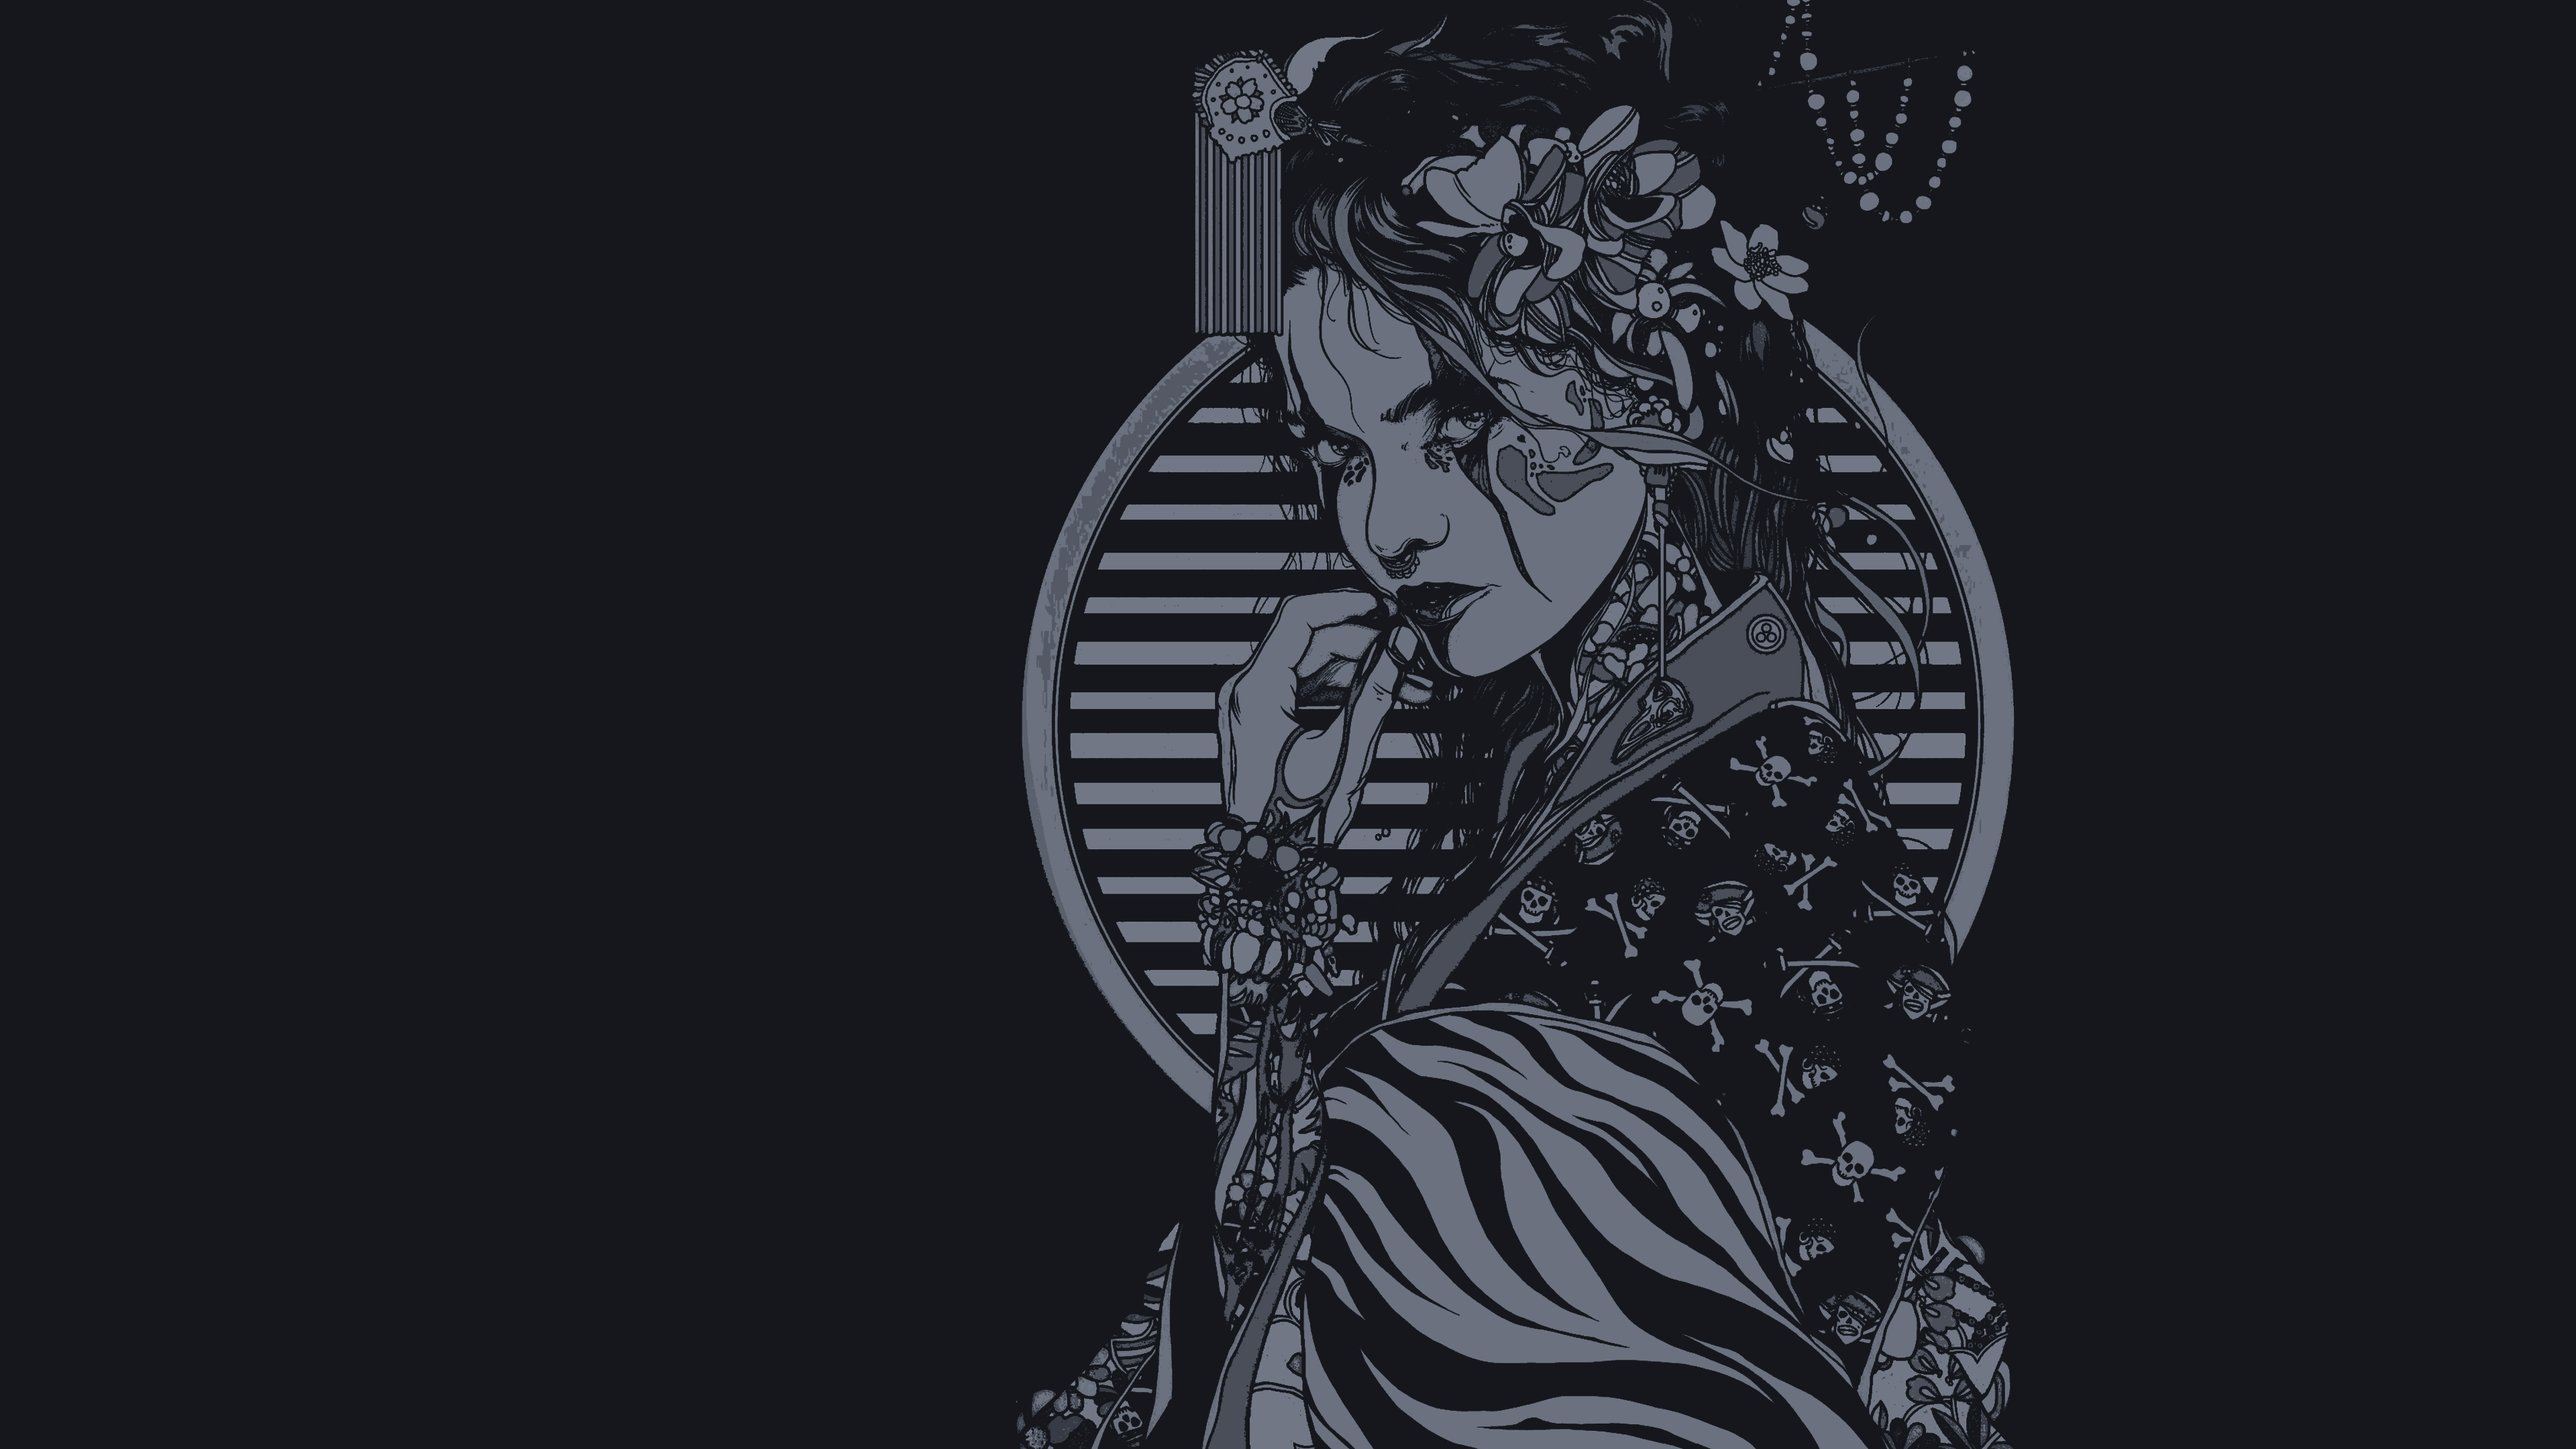
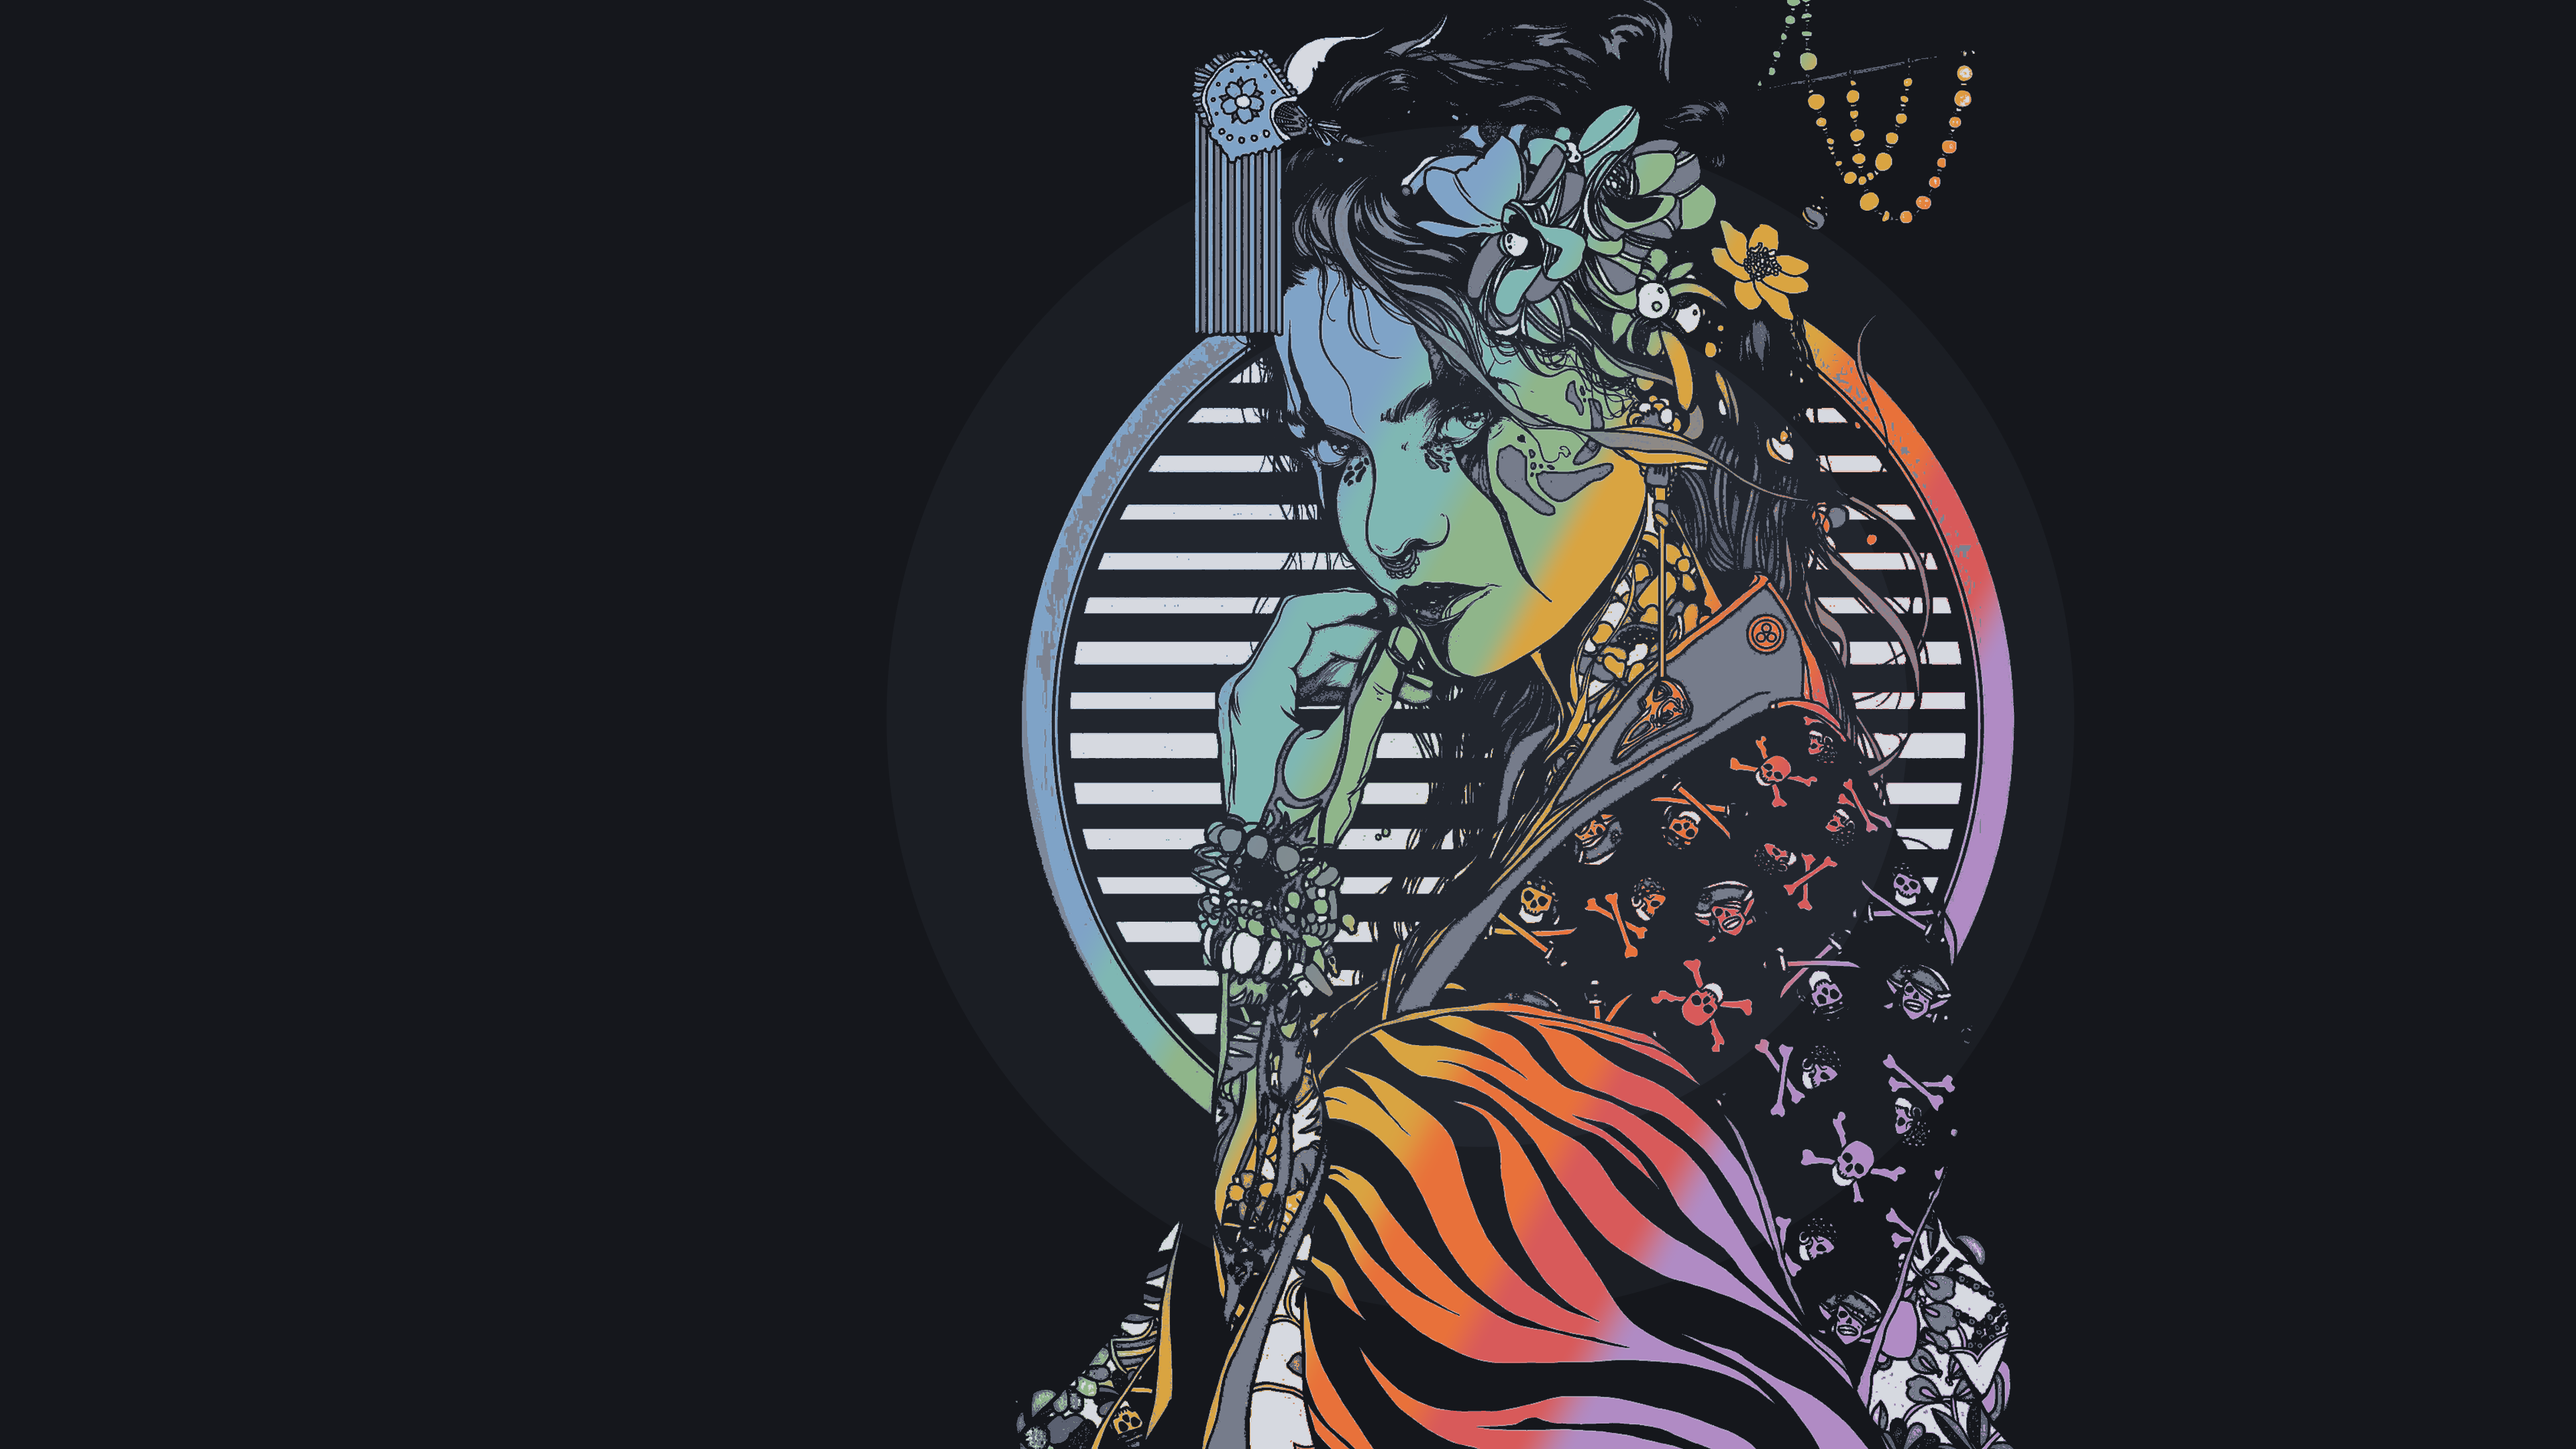
backgrounds: recolour every wallpaper with the full palette
The five wallpapers used only the neutrals and ember. They now carry all
13 colours of backgrounds/*.gpl, each as its exact hex: window paper, a
stepped pane and container disc behind the subject, comment and muted
shadows, the seven colours swept across the subject in equal-area bands,
text on the strongest lines.

scripts/wallpaper.py does the mapping and checks every colour and the
window corners before writing; wallpaper.sh now prepares the grey and
hands it over. The sources are not in the repo, so these were redone with
--v1, which recovers the grey levels from the two-tone renders.

Claude-Session: https://claude.ai/code/session_01PiNkwWbMkiGMkdhnqFjUyB

Changed region(s): [[0.375, 0.0, 0.7812, 1.0], [0.6875, 0.031, 0.7812, 0.1551]]

diff --git a/scripts/wallpaper.py b/scripts/wallpaper.py
@@ -1,0 +1,230 @@
+#!/usr/bin/env python3
+"""Recolour one wallpaper with every colour of the repo palette.
+
+    python3 scripts/wallpaper.py night GREY.png OUT.png
+    python3 scripts/wallpaper.py day   GREY.png OUT.png
+    python3 scripts/wallpaper.py night --v1 backgrounds/ember-eagle.png OUT.png
+
+GREY is the cover-cropped grey render that scripts/wallpaper.sh prepares (light
+subject on dark for night, dark subject on light for day). --v1 instead reads
+a wallpaper made by the first, two-tone lookup and recovers its grey levels, so
+the shipped wallpapers can be redone without the cool-wallpapers sources.
+
+The palette is read from backgrounds/*.gpl. Each pixel gets an ink level, 0 on
+the paper and 1 on the strongest line, and runs along one ramp of roles:
+
+    ink  0.00-0.20  window, flat, so the paper lands exactly on the window
+         0.20-0.46  comment, then muted (shadows and fine lines)
+         0.46-0.80  one of the seven colours (ember, moss, amber, brick,
+                    slate blue, heather, verdigris), held flat
+         0.80-1.00  text (fog by night, ink by day) on the strongest lines
+
+Which of the seven a pixel takes depends on where it sits: the subject is
+swept on a diagonal and split into seven bands of equal ink, so each colour
+covers about a seventh of the subject. Behind the subject sits a stepped disc
+in pane and container, kept clear of the corners so they stay on the window.
+Blends between roles are mixed in OKLab; every role holds a flat band, so
+each palette colour is present as its exact hex.
+"""
+import glob
+import os
+import sys
+
+import numpy as np
+from PIL import Image
+
+W, H = 3840, 2160
+HUES = ["Slate blue", "Verdigris", "Moss", "Amber", "Ember", "Brick", "Heather"]
+SWEEP = np.deg2rad(28)  # top left to bottom right
+
+# The first lookup of scripts/wallpaper.sh, as (rows, from, to); used by --v1.
+V1 = {
+    "night": [(48, "15171C", "15171C"), (42, "15171C", "2A2F38"), (70, "2A2F38", "7C8290"),
+              (60, "7C8290", "E8713A"), (36, "E8713A", "F1D9C8")],
+    "day": [(100, "2B2E36", "6B6F78"), (50, "6B6F78", "A4441A"), (40, "A4441A", "D4CFC6"),
+            (15, "D4CFC6", "E9E6DF"), (51, "E9E6DF", "E9E6DF")],
+}
+
+
+def rgb(h):
+    return np.array([int(h[i:i + 2], 16) for i in (0, 2, 4)], dtype=np.float64)
+
+
+def palette(root):
+    gpl = glob.glob(os.path.join(root, "backgrounds", "*.gpl"))
+    assert len(gpl) == 1, f"want one .gpl in backgrounds/, found {gpl}"
+    pal = {}
+    for line in open(gpl[0]):
+        p = line.split()
+        if len(p) >= 4 and all(x.isdigit() for x in p[:3]):
+            pal[" ".join(p[3:-1])] = np.array([int(x) for x in p[:3]], dtype=np.float64)
+    return pal
+
+
+def to_lab(c):
+    c = c / 255.0
+    c = np.where(c <= 0.04045, c / 12.92, ((c + 0.055) / 1.055) ** 2.4)
+    m1 = np.array([[0.4122214708, 0.5363325363, 0.0514459929],
+                   [0.2119034982, 0.6806995451, 0.1073969566],
+                   [0.0883024619, 0.2817188376, 0.6299787005]])
+    m2 = np.array([[0.2104542553, 0.7936177850, -0.0040720468],
+                   [1.9779984951, -2.4285922050, 0.4505937099],
+                   [0.0259040371, 0.7827717662, -0.8086757660]])
+    return np.cbrt(c @ m1.T) @ m2.T
+
+
+def from_lab(L):
+    m2i = np.array([[1.0, 0.3963377774, 0.2158037573],
+                    [1.0, -0.1055613458, -0.0638541728],
+                    [1.0, -0.0894841775, -1.2914855480]])
+    m1i = np.array([[4.0767416621, -3.3077115913, 0.2309699292],
+                    [-1.2684380046, 2.6097574011, -0.3413193965],
+                    [-0.0041960863, -0.7034186147, 1.7076147010]])
+    c = np.clip((L @ m2i.T) ** 3 @ m1i.T, 0, 1)
+    c = np.where(c <= 0.0031308, c * 12.92, 1.055 * c ** (1 / 2.4) - 0.055)
+    return np.rint(c * 255).clip(0, 255).astype(np.uint8)
+
+
+def smooth(x):
+    x = np.clip(x, 0, 1)
+    return x * x * (3 - 2 * x)
+
+
+def ink_from_grey(mode, path):
+    g = np.asarray(Image.open(path).convert("I;16"), dtype=np.float32) / 65535
+    if g.shape != (H, W):
+        sys.exit(f"{path} is {g.shape[1]}x{g.shape[0]}, want {W}x{H}")
+    return g if mode == "night" else 1 - g
+
+
+def ink_from_v1(mode, path):
+    """Invert the two-tone lookup: find each colour's row, row/255 is the grey."""
+    rows = []
+    for n, a, b in V1[mode]:
+        a, b = rgb(a), rgb(b)
+        rows += [a + (b - a) * i / max(n - 1, 1) for i in range(n)]
+    rows = np.array(rows)
+    fine = np.concatenate([rows[i] + (rows[i + 1] - rows[i]) * np.linspace(0, 1, 16, endpoint=False)[:, None]
+                           for i in range(len(rows) - 1)] + [rows[-1:]])
+    grey_of_fine = np.arange(len(fine)) / 16 / 255
+    img = np.asarray(Image.open(path).convert("RGB"))
+    if img.shape[:2] != (H, W):
+        sys.exit(f"{path} is {img.shape[1]}x{img.shape[0]}, want {W}x{H}")
+    flat = img.reshape(-1, 3)
+    keys = (flat[:, 0].astype(np.int32) << 16) | (flat[:, 1].astype(np.int32) << 8) | flat[:, 2]
+    uniq, inv = np.unique(keys, return_inverse=True)
+    ucol = np.stack([uniq >> 16, (uniq >> 8) & 255, uniq & 255], 1).astype(np.float64)
+    d = ((ucol[:, None, :] - fine[None, :, :]) ** 2).sum(-1)
+    near = d.argmin(1)
+    worst = np.sqrt(d[np.arange(len(ucol)), near]).max()
+    if worst > 3:
+        sys.exit(f"{path}: a colour sits {worst:.1f} off the {mode} lookup, not a v1 render")
+    g = grey_of_fine[near][inv].reshape(H, W).astype(np.float32)
+    return g if mode == "night" else 1 - g
+
+
+def densest(mask, step=16):
+    """Centroid of the mask weighted by the square of its local density (a box
+    a sixth of the height wide), so solid shapes count and thin lines barely do."""
+    h, w = H // step, W // step
+    small = mask[:h * step, :w * step].reshape(h, step, w, step).mean((1, 3))
+    k = H // 6 // step
+    c = np.pad(small, ((k // 2 + 1, k - k // 2), (k // 2 + 1, k - k // 2))).cumsum(0).cumsum(1)
+    box = (c[k:, k:] - c[:-k, k:] - c[k:, :-k] + c[:-k, :-k])[:h, :w] / k ** 2
+    wt = small * box ** 2
+    yy, xx = np.mgrid[0:h, 0:w]
+    return ((xx * wt).sum() / wt.sum() + 0.5) * step, ((yy * wt).sum() / wt.sum() + 0.5) * step
+
+
+def rank(ink, subject):
+    """Spread the subject's ink evenly over 0.2-1 by its own distribution (ties
+    take their middle rank), so a faint render and a bold one both run the whole
+    ramp and every role lands on part of the subject."""
+    bins = np.clip((ink * 4095).astype(np.int32), 0, 4095)
+    n = np.bincount(bins[subject], minlength=4096).astype(np.float64)
+    mid = (np.cumsum(n) - n / 2) / n.sum()
+    return np.where(subject, 0.2 + 0.8 * mid[bins], ink).astype(np.float32)
+
+
+def render(mode, ink, pal):
+    lab = {k: to_lab(v) for k, v in pal.items()}
+    window = lab["Window"]
+    # outer disc is whichever of pane / container sits nearer the window
+    near, far = sorted(["Pane", "Container"], key=lambda k: abs(lab[k][0] - window[0]))
+
+    ys, xs = np.mgrid[0:H, 0:W].astype(np.float32)
+    subject = ink > 0.2
+    ink = rank(ink, subject)
+    if not subject.any():
+        sys.exit("nothing above the paper: is the mode right?")
+
+    # stepped disc behind the subject: centred where the subject is densest
+    # (so thin lines trailing off do not pull it away), wide enough for most
+    # of it, its rim kept 120 px inside every edge where the room allows
+    cx, cy = densest(subject)
+    dist = np.hypot(xs - cx, ys - cy)
+    r = 1.15 * np.percentile(dist[subject], 70)
+    r = min(r, cx - 120, W - 120 - cx, cy - 120, H - 120 - cy, 0.46 * H)
+    r = max(r, 0.16 * H)
+    outer = np.clip(r - dist + 0.5, 0, 1)[..., None]
+    inner = np.clip(0.72 * r - dist + 0.5, 0, 1)[..., None]
+    base = window + (lab[near] - window) * outer
+    base = base + (lab[far] - base) * inner
+
+    # colour sweep: equal-ink bands of the seven colours along a diagonal
+    proj = xs * np.cos(SWEEP) + ys * np.sin(SWEEP)
+    hot = (ink > 0.48) & (ink < 0.84)
+    pts = proj[hot] if hot.sum() > 1000 else proj[subject]
+    q = np.quantile(pts, np.linspace(0, 1, 513))
+    q = np.maximum.accumulate(q + np.arange(513) * 1e-4)
+    t = np.interp(proj, q, np.linspace(0, 1, 513))
+    s = np.clip(t * len(HUES) - 0.5, 0, len(HUES) - 1)
+    i = np.minimum(s.astype(np.int32), len(HUES) - 2)
+    f = smooth((s - i - 0.3) / 0.4)[..., None]
+    hues = np.array([lab[k] for k in HUES])
+    hue = hues[i] + (hues[i + 1] - hues[i]) * f
+
+    keys = [(0.20, base), (0.26, lab["Comment"]), (0.31, lab["Comment"]),
+            (0.37, lab["Muted"]), (0.42, lab["Muted"]), (0.48, hue),
+            (0.84, hue), (0.92, lab["Text"])]
+    out = np.broadcast_to(base, (H, W, 3)).copy()
+    for (a, ca), (b, cb) in zip(keys, keys[1:]):
+        m = ink > a
+        w = smooth((ink[m] - a) / (b - a))[:, None]
+        ca = ca[m] if np.ndim(ca) == 3 else ca
+        cb = cb[m] if np.ndim(cb) == 3 else cb
+        out[m] = ca + (cb - ca) * w
+    return from_lab(out.reshape(-1, 3)).reshape(H, W, 3)
+
+
+def check(img, pal, path):
+    flat = img.reshape(-1, 3)
+    missing = []
+    for k, v in pal.items():
+        n = int(np.all(flat == v.astype(np.uint8), axis=1).sum())
+        if n < 500:
+            missing.append(f"{k} ({n} px)")
+    corners = [img[0, 0], img[0, -1], img[-1, 0], img[-1, -1]]
+    if any((c != pal["Window"]).any() for c in corners):
+        missing.append("window corners")
+    if missing:
+        sys.exit(f"{path}: short of " + ", ".join(missing))
+
+
+def main(argv):
+    v1 = "--v1" in argv
+    argv = [a for a in argv if a != "--v1"]
+    if len(argv) != 3 or argv[0] not in ("night", "day"):
+        sys.exit(__doc__.split("\n\n")[1])
+    mode, src, out = argv
+    root = os.path.dirname(os.path.dirname(os.path.abspath(__file__)))
+    pal = palette(root)
+    ink = (ink_from_v1 if v1 else ink_from_grey)(mode, src)
+    img = render(mode, ink, pal)
+    check(img, pal, out)
+    Image.fromarray(img).save(out, optimize=True)
+    print(out)
+
+
+if __name__ == "__main__":
+    main(sys.argv[1:])

diff --git a/README.md b/README.md
@@ -92,7 +92,8 @@ Window hint `#E8713A`. Ratios per role are in `docs/showcase.md`, or run
 ├── scripts
 │   ├── update_system.sh         # nala + flatpak, fog ANSI for a dark terminal
 │   ├── contrast.py              # palette contrast table, feeds the README
-│   └── wallpaper.sh             # renders a wallpaper from any source image
+│   ├── wallpaper.sh             # renders a wallpaper from any source image
+│   └── wallpaper.py             # maps its grey onto all 13 palette colours
 ├── zsh
 │   ├── ember.zsh                # LS_COLORS, highlighting colours, aliases, starship
 │   └── install.sh
@@ -331,6 +332,19 @@ source renders with one command:
 
 ```bash
 ./scripts/wallpaper.sh night path/to/source.png backgrounds/ember-<subject>.png
+```
+
+Every wallpaper carries all 13 palette colours, each as its exact hex: the paper is
+the window, a stepped disc of pane and container sits behind the subject, comment
+and muted draw the shadows, the seven colours (slate blue, verdigris, moss, amber,
+ember, brick, heather) sweep across the subject on a diagonal in bands of equal
+area, and text takes the strongest lines. `scripts/wallpaper.py` reads the colours
+from `backgrounds/ember.gpl`, refuses to write a wallpaper short of any of them or
+whose corners are off the window, and with `--v1` re-renders a wallpaper made by the
+first two-tone lookup without its source:
+
+```bash
+python3 scripts/wallpaper.py night --v1 backgrounds/ember-<subject>.png backgrounds/ember-<subject>.png
 ```
 
 Settings → Wallpaper → Add image → a file from `backgrounds/`.
